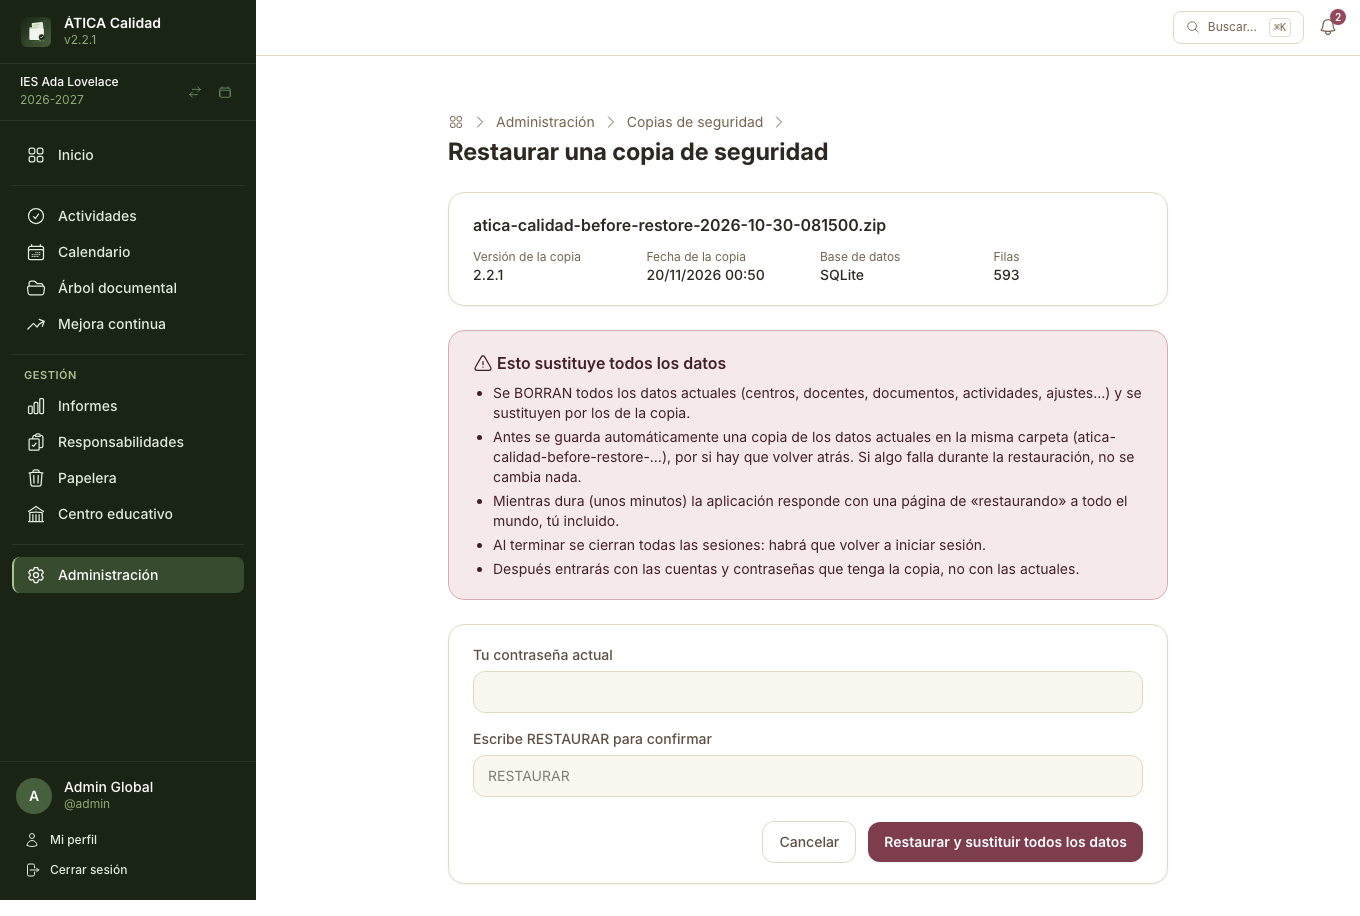
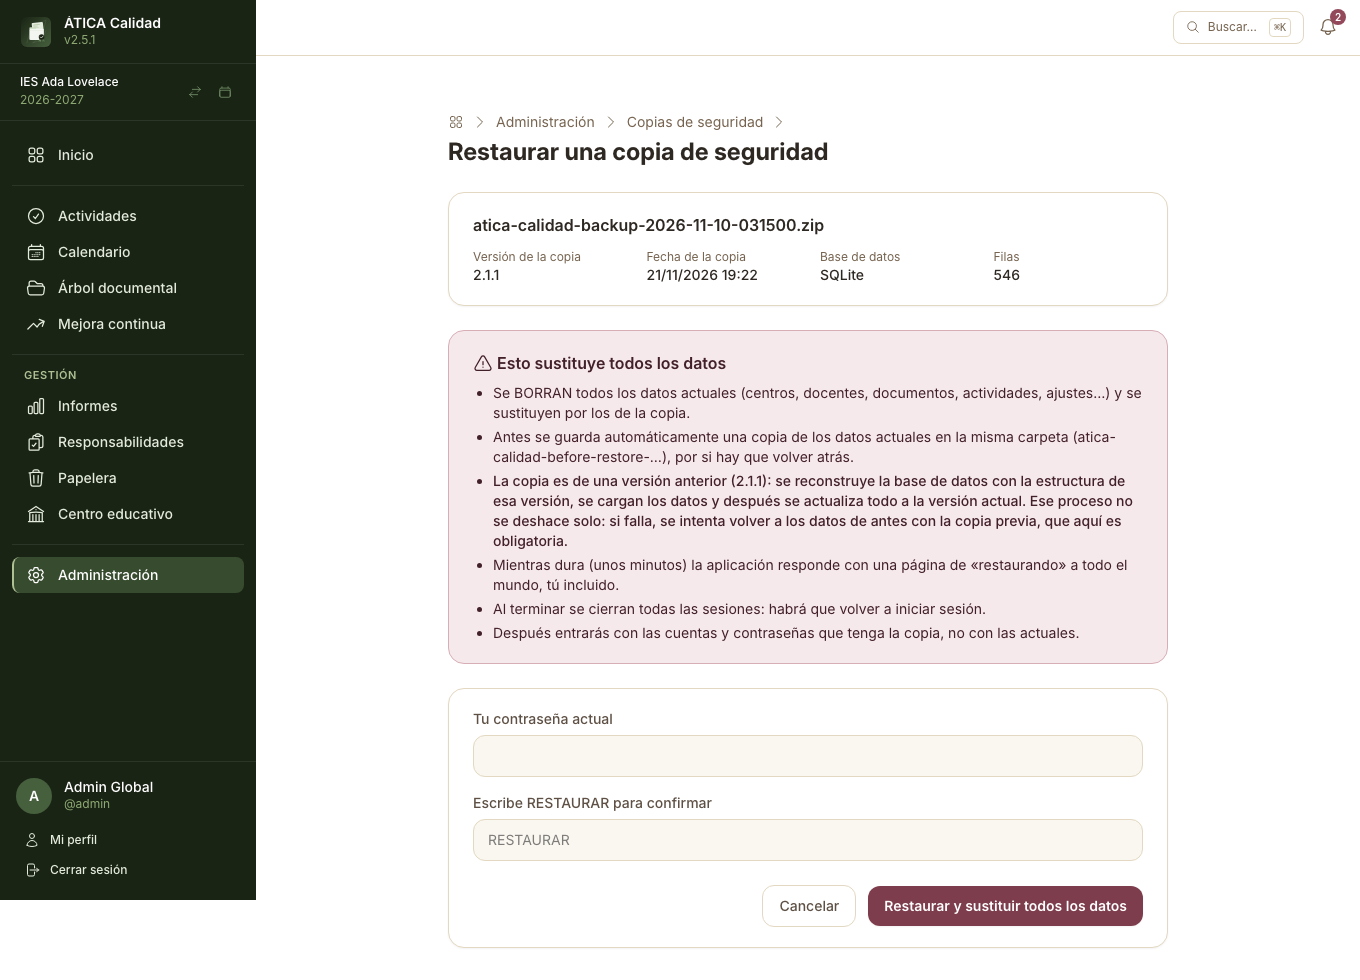
docs(manual): copias de versiones anteriores y capturas de la pantalla de copias

diff --git a/docs/manual/10-administrar-la-plataforma.md b/docs/manual/10-administrar-la-plataforma.md
@@ -377,7 +377,7 @@ Haz copia de seguridad con regularidad de:
 **Administración → Copias de seguridad** (solo administradores globales) permite descargar una
 copia, guardarla en el servidor y restaurar una de las guardadas, sin tocar la línea de órdenes.
 
-![Pantalla «Copias de seguridad»: la tarjeta «Descargar una copia» con los campos opcionales de contraseña, el aviso verde «La última restauración terminó bien» y la lista de copias guardadas en el servidor: una cifrada (solo se restaura por consola), una con otro esquema de base de datos (no se puede restaurar desde aquí) y tres restaurables, cada una con Restaurar, Descargar y Eliminar](img/plataforma-copias.png)
+![Pantalla «Copias de seguridad»: la tarjeta «Descargar una copia» con los campos opcionales de contraseña, el aviso verde «La última restauración terminó bien» y la lista de copias guardadas en el servidor: una de una versión más nueva (9.9.0, no se puede restaurar), una cifrada (solo se restaura por consola) y cuatro restaurables —una de ellas de la versión 2.1.1—, cada una con Restaurar, Descargar y Eliminar](img/plataforma-copias.png)
 
 - **Descargar una copia.** El botón genera al momento un `.zip` con todos los datos, igual que
   `app:backup`, y lo descarga. Si escribes una contraseña (dos veces, para evitar errores de
@@ -419,16 +419,18 @@ copia, guardarla en el servidor y restaurar una de las guardadas, sin tocar la l
   copias de vez en cuando y guárdalas en otro sitio.
 - **La lista de copias** muestra el tamaño, la fecha, la versión de la aplicación y el motor de
   cada una, y si no se puede restaurar desde el panel, por qué: está **cifrada** con contraseña
-  (solo con `app:restore --password`) o se hizo con **otra versión del esquema** de la base de
-  datos (actualiza la aplicación a la versión de la copia). Cada copia se puede **descargar** (para
-  llevarla a otra máquina; sale tal cual está guardada) y **eliminar**.
+  (solo con `app:restore --password`) o se hizo con una **versión más nueva** que la instalada
+  (actualiza la aplicación a la versión de la copia o a una posterior). Una copia de una versión
+  **anterior** sí se puede restaurar: ver
+  [Copias de versiones anteriores](#copias-de-versiones-anteriores). Cada copia se puede
+  **descargar** (para llevarla a otra máquina; sale tal cual está guardada) y **eliminar**.
 
 #### Restaurar una copia desde el panel
 
 **Restaurar** en una copia abre una pantalla de revisión que explica qué va a pasar, y que **no
 cambia nada** hasta que la confirmas.
 
-![Pantalla «Restaurar una copia de seguridad»: la copia (nombre, versión 1.26.1, fecha, base de datos SQLite y 539 filas), un cuadro rojo «Esto sustituye todos los datos» con cinco avisos, y el formulario con los campos «Tu contraseña actual» y «Escribe RESTAURAR para confirmar»](img/plataforma-copias-restaurar.png)
+![Pantalla «Restaurar una copia de seguridad»: la copia (nombre, versión 2.1.1, fecha, base de datos SQLite y 546 filas), un cuadro rojo «Esto sustituye todos los datos» con cinco avisos —entre ellos, en negrita, que la copia es de una versión anterior y se reconstruye la base de datos— y el formulario con los campos «Tu contraseña actual» y «Escribe RESTAURAR para confirmar»](img/plataforma-copias-restaurar.png)
 
 Para confirmar hay que escribir **tu contraseña actual** y la palabra `RESTAURAR`. Quien accede por
 un sistema externo y no tiene contraseña propia no puede confirmar desde la web: tiene que usar
@@ -448,7 +450,9 @@ Al confirmar:
 2. Antes de tocar nada se guarda una copia de los datos actuales en la misma carpeta
    (`atica-calidad-before-restore-…`), por si hay que volver atrás.
 3. La carga es **transaccional**: si algo falla, no se cambia ningún dato, y el resultado queda
-   anotado en la pantalla de copias («La última restauración … terminó bien / falló»).
+   anotado en la pantalla de copias («La última restauración … terminó bien / falló»). (Si la copia
+   es de una versión anterior el proceso es otro: ver
+   [Copias de versiones anteriores](#copias-de-versiones-anteriores).)
 4. Al terminar bien se **cierran todas las sesiones**: hay que volver a entrar, con las cuentas y
    contraseñas que tenga la copia.
 
@@ -492,11 +496,13 @@ Reemplaza **todos** los datos actuales por los de la copia indicada —también 
 el [modo mantenimiento](#modo-mantenimiento) queda como estuviera cuando se hizo la copia: si lo
 habías activado para restaurar, tendrás que volver a activarlo, o desactivarlo, después—. Antes de tocar nada muestra
 la fecha, la versión de la aplicación y el contenido de la copia, y pide confirmación; `--force`
-la omite (obligatorio en modo no interactivo). Si el esquema con el que se hizo la copia no
-coincide con el de la base de datos actual —hay migraciones pendientes o de más—, se niega salvo
-que se añada `--force`.
+la omite (obligatorio en modo no interactivo). Si la copia se hizo con una migración **anterior**
+que esta versión conoce, se actualiza sola (ver
+[Copias de versiones anteriores](#copias-de-versiones-anteriores)), con o sin `--force`. Si se hizo
+con una migración que esta versión **no conoce** (una versión más nueva), se niega salvo que se
+añada `--force`, que carga los datos en la estructura actual aunque puedan no encajar.
 
-La carga es **transaccional**: si algo falla, la base de datos queda como estaba. Mientras dura,
+Con una copia de la misma versión la carga es **transaccional**: si algo falla, la base de datos queda como estaba. Mientras dura,
 se suspenden las comprobaciones de clave ajena; en **PostgreSQL** esto requiere conectarse con un
 rol con privilegios (el propietario de la base de datos o un superusuario), igual que
 `pg_restore --disable-triggers`. En SQLite y MySQL no hace falta nada especial.
@@ -510,6 +516,34 @@ cuando se restaura desde el panel, y al terminar bien se cierran todas las sesio
 
 Tras restaurar, **reinicia los procesos de la aplicación** (incluido el worker de Messenger) para
 descartar cualquier dato en caché.
+
+#### Copias de versiones anteriores {#copias-de-versiones-anteriores}
+
+Una copia hecha con una versión anterior de la aplicación se puede restaurar en la versión actual:
+no hace falta instalar la versión antigua. Como la estructura de las tablas ha cambiado desde
+entonces, el proceso es distinto del de una copia de la misma versión:
+
+1. Se guarda **siempre una copia previa** de los datos actuales (`atica-calidad-before-restore-…`).
+   Aquí no es opcional, aunque en la consola no pases `--previous-backup`.
+2. Se **borran todas las tablas** y se vuelven a crear ejecutando las migraciones desde cero hasta
+   la versión de la copia (sin deshacer ninguna migración).
+3. Se cargan los datos de la copia.
+4. Se ejecutan las **migraciones que faltan** hasta la última, que transforman los datos de la
+   copia a la estructura actual y añaden los ajustes y tablas nuevos.
+
+La pantalla de restauración avisa cuando la copia es de este tipo. Tiene una diferencia importante
+con la restauración normal: **no es transaccional** (en MySQL cada cambio de estructura se
+confirma solo), así que si algo falla a medias, la base de datos no se queda como estaba. Por eso
+la aplicación intenta **volver sola a los datos de antes** con la copia previa; si tampoco eso
+funciona, el resultado de la última restauración dice qué copia previa hay que restaurar a mano
+(`php bin/console app:restore <copia>`). Una copia de una versión **posterior** a la instalada no
+se puede restaurar: actualiza antes la aplicación.
+
+Mientras dura, el proceso en segundo plano no toca la base de datos: las tareas programadas
+(índice de búsqueda, OCR, recordatorios) se saltan ese turno y los correos en cola esperan a que
+termine. Como la cola de mensajes también se reconstruye, **reinicia el worker** al acabar (el
+mismo reinicio que ya se pide tras cualquier restauración); si el worker se detuvo mientras tanto
+porque no encontraba la cola, vuelve a arrancarlo.
 
 ## Correos en cola (Messenger) {#correos-en-cola-messenger}
 

diff --git a/CHANGELOG.md b/CHANGELOG.md
@@ -7,6 +7,26 @@ a [Semantic Versioning](https://semver.org/lang/es/).
 
 ## [Unreleased]
 
+### Added
+- **Restaurar copias de seguridad hechas con una versión anterior.** Antes, una copia cuya migración no coincidía con la de la
+  base de datos aparecía como «no se puede restaurar desde aquí» y había que instalar la versión antigua. Ahora, si la
+  migración de la copia es anterior y esta versión la conoce, la restauración borra las tablas, las recrea ejecutando las
+  migraciones desde cero hasta la versión de la copia (sin ejecutar ningún `down()`), carga los datos y migra hasta la última,
+  de modo que las migraciones que transforman datos se aplican sobre los de la copia. Funciona desde el panel y con
+  `app:restore`, también con `--force` (la reconstrucción tiene prioridad). Este camino no es transaccional, así que la **copia
+  previa de los datos actuales es obligatoria** y, si la restauración falla después de reconstruir el esquema, se vuelve sola a
+  los datos de antes con esa copia (si tampoco eso es posible, el resultado indica qué copia restaurar a mano). La pantalla de
+  restauración avisa cuando la copia es de este tipo. Una copia de una versión **posterior** sigue rechazándose antes de tocar
+  nada. Probado con una copia real de la v2.1.1 con datos de demostración en SQLite, PostgreSQL, MySQL y MariaDB, y con fallos
+  forzados tras la reconstrucción (con vuelta atrás automática) en SQLite y MySQL.
+
+### Changed
+- Mientras se restaura una copia, el proceso en segundo plano no toca la base de datos: las tareas programadas (índice de
+  búsqueda, OCR, recordatorios) se saltan ese turno y los demás mensajes esperan en la cola, en lugar de escribir en un
+  esquema que se está reconstruyendo.
+- El aviso de la pantalla de restauración sobre «si algo falla no se cambia nada» solo aparece en la restauración
+  transaccional (copia de la misma versión), y el de la última restauración fallida ya no asegura que no se cambió ningún dato.
+
 ## [2.5.1] - 2026-11-21
 
 ### Changed
